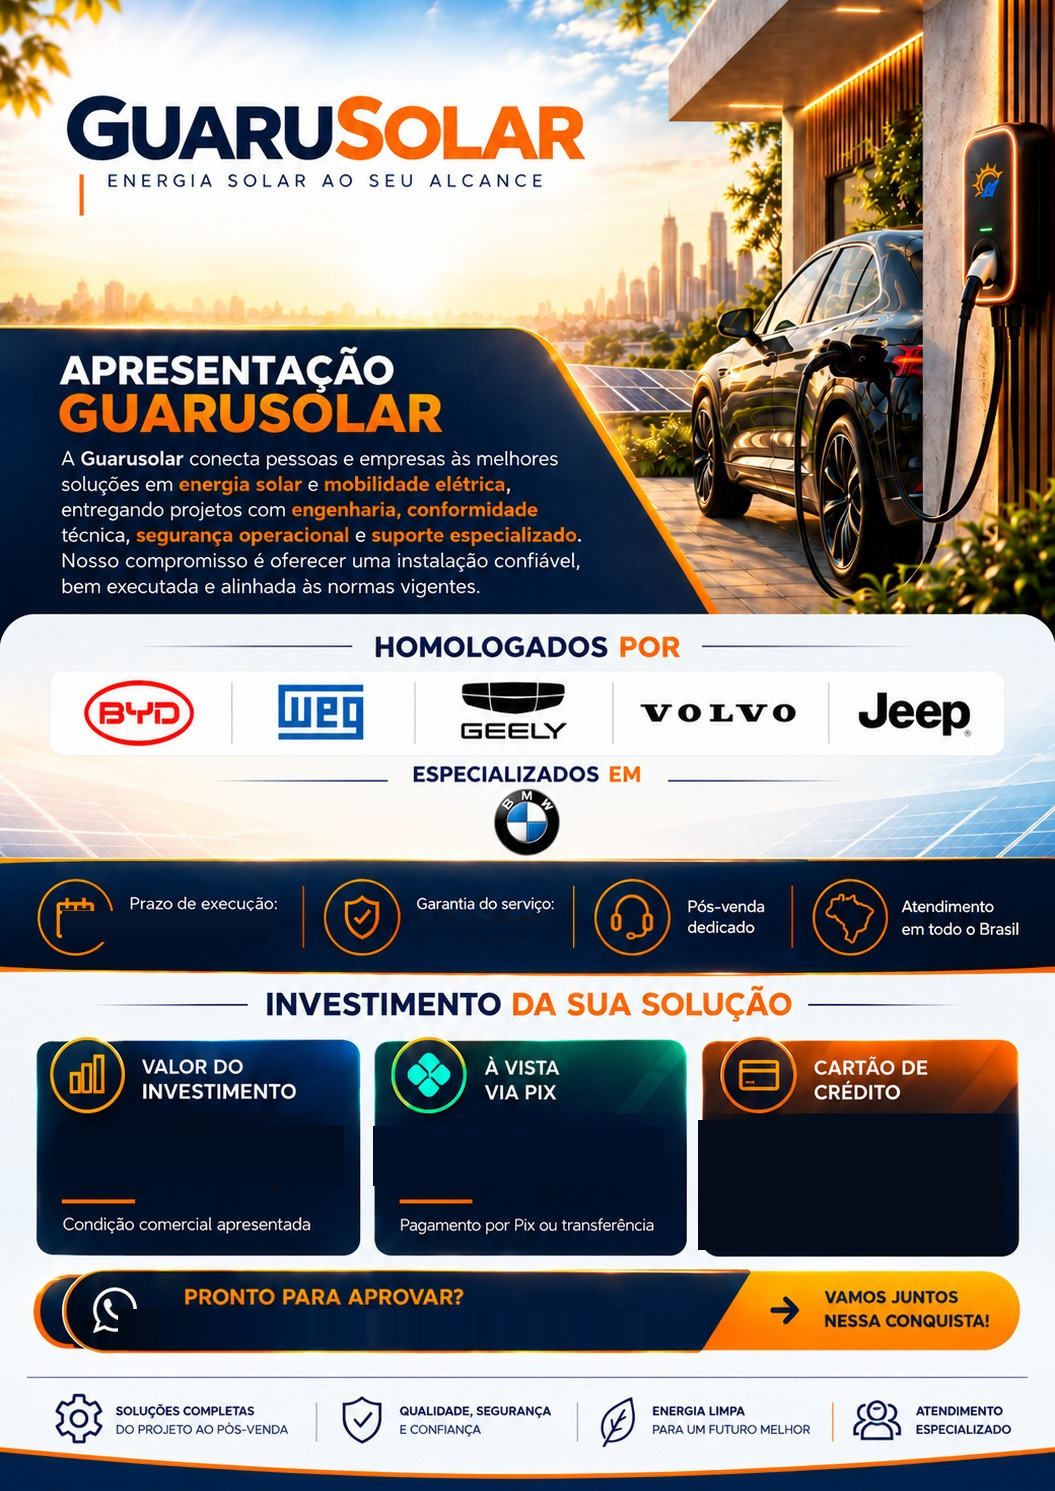
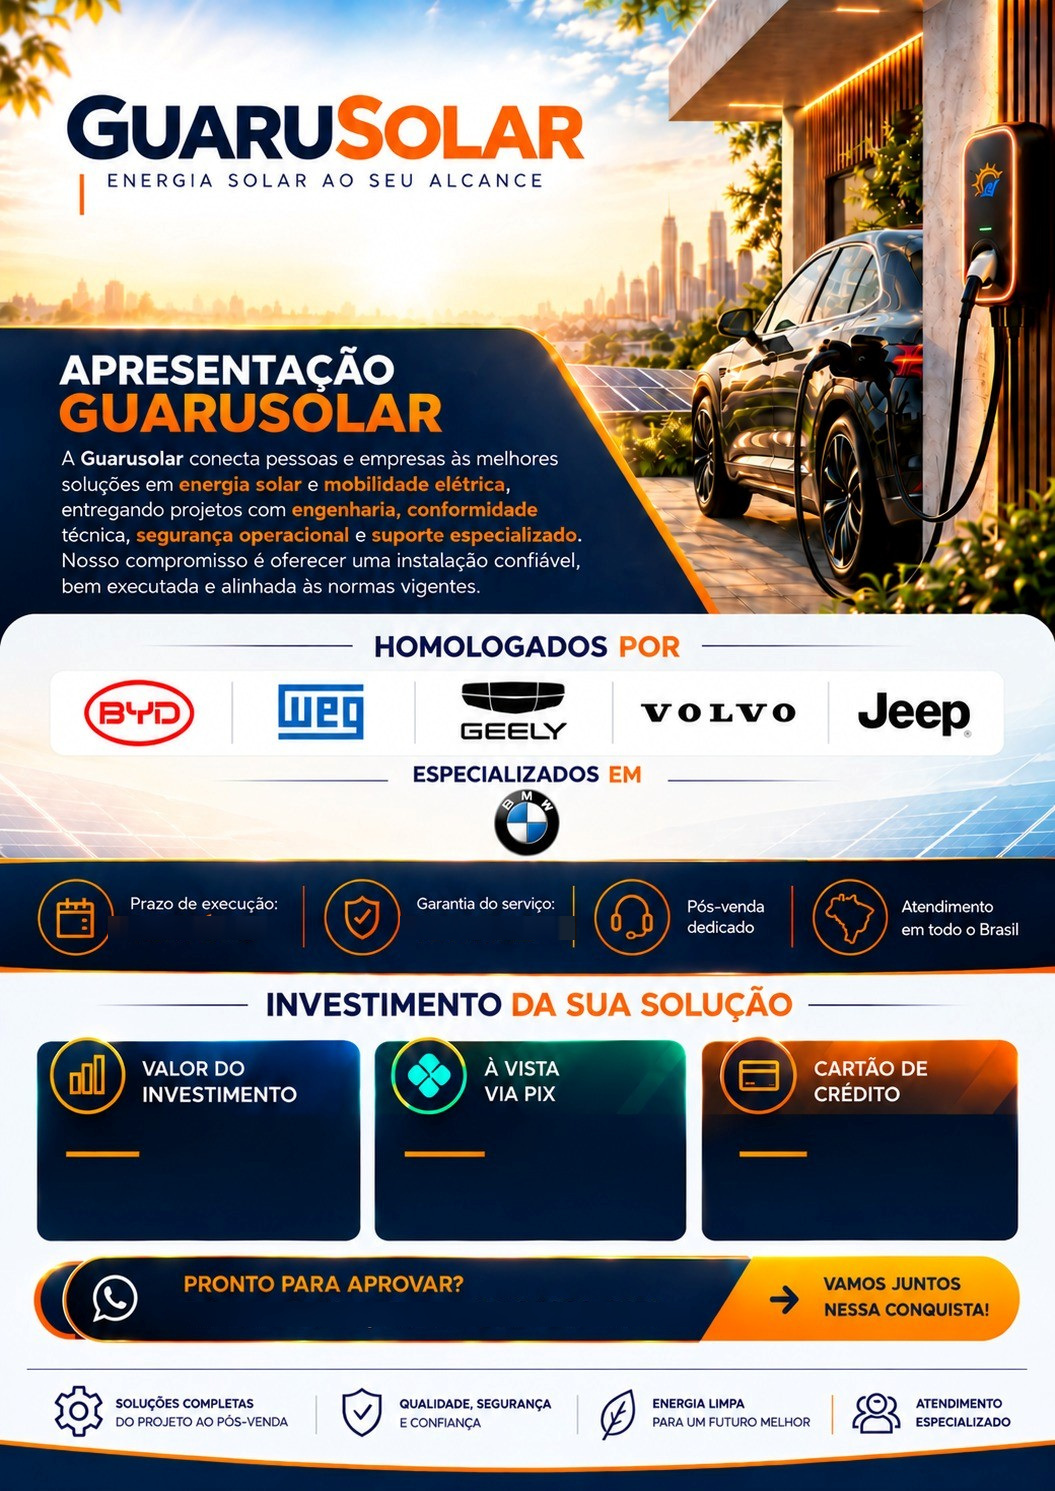
Proposta nova: artes de 27/10, cartoes da pagina 3 e numero em todas
- Troca as artes da pagina 3 e da capa do carregador veicular.
- Pagina 3: a regua laranja subiu; valor e linha de apoio vao embaixo
  dela, posicionados pela linha de base. Legendas do sistema (a arte nao
  as traz mais): "Condicao comercial apresentada" e "N% de desconto"
  (nada com desconto zero). Cartao em tres linhas: "12 x R$ 916,36", a
  ultima parcela e o total (", sem juros" se absorvida); pagamento unico
  sem a linha do total. Contato sobe 8 pt.
- "Pagina X de N" nas tres paginas, com o total real; branco sobre a
  faixa navy nas artes.

diff --git a/apps/api/src/lib/pdf-proposta-nova.ts b/apps/api/src/lib/pdf-proposta-nova.ts
@@ -790,10 +790,10 @@ function campo(nome: keyof typeof PAGINA_3_NOVA.campos, linhas: Linha[]): Conten
   } as Content;
 }
 
-/** Valor grande de um campo: o maior tamanho que cabe na largura dele. */
-const valorGrande = (nome: keyof typeof PAGINA_3_NOVA.campos, texto: string): Linha => ({
+/** Valor grande de um cartão: o maior tamanho que cabe na largura dele. */
+const valorGrande = (largura: number, texto: string): Linha => ({
   texto,
-  tamanho: tamanhoQueCabe(texto, PAGINA_3_NOVA.campos[nome].largura) ?? 11,
+  tamanho: tamanhoQueCabe(texto, largura) ?? 11,
   negrito: true,
 });
 
@@ -802,30 +802,73 @@ const valorGrande = (nome: keyof typeof PAGINA_3_NOVA.campos, texto: string): Li
  * antigo com entrada (anterior a 25/10/2026) saem a 7,5 pt e podem descer até 7 para caber numa
  * linha (`encolheAte`); fora isso, só a linha "N parcelas sem juros de" desce, até o piso de 9.
  */
-const linhaDeApoio = (nome: keyof typeof PAGINA_3_NOVA.campos, texto: string, maximo: number, acima = 0, encolheAte = maximo): Linha => ({
+const linhaDeApoio = (largura: number, texto: string, maximo: number, encolheAte = maximo): Linha => ({
   texto,
-  tamanho: tamanhoQueCabe(texto, PAGINA_3_NOVA.campos[nome].largura, maximo, encolheAte) ?? maximo,
+  tamanho: tamanhoQueCabe(texto, largura, maximo, encolheAte) ?? maximo,
   cor: PAGINA_3_NOVA.cores.detalhe,
-  acima,
 });
+
+/** IBM Plex Sans (normal e negrito): o pdfmake põe a linha de base 1,025 x o tamanho abaixo do topo da linha. */
+const ASCENDENTE = 1.025;
+
+/** Uma linha posicionada pela LINHA DE BASE (x, base), limitada à largura. */
+function linhaNaBase(x: number, base: number, largura: number, l: Linha): Content {
+  return {
+    absolutePosition: { x, y: base - ASCENDENTE * l.tamanho },
+    // tabela de uma célula: em posição absoluta é ela que limita a largura do texto
+    table: {
+      widths: [largura],
+      body: [[{ text: l.texto, fontSize: l.tamanho, bold: l.negrito ?? false, color: l.cor ?? PAGINA_3_NOVA.cores.valor, lineHeight: 1.05 }]],
+    },
+    layout: semBordas([0, 0, 0, 0]),
+  } as Content;
+}
+
+type CartaoDeValor = keyof typeof PAGINA_3_NOVA.cartoes;
+
+/**
+ * O valor de um cartão (linha de base PAGINA_3_NOVA.cartoes) e, embaixo, as linhas de apoio, cada
+ * uma `entreLinhas` abaixo da anterior. `apertado`: só o orçamento antigo com entrada (três linhas
+ * de apoio a 7,5 pt; nenhum na base).
+ */
+function noCartao(nome: CartaoDeValor, valor: Linha, apoio: Linha[], apertado = false): Content[] {
+  const c = PAGINA_3_NOVA.cartoes[nome];
+  const doValor = apertado ? 12 : PAGINA_3_NOVA.entreLinhas.doValor;
+  const doApoio = apertado ? 8.5 : PAGINA_3_NOVA.entreLinhas.doApoio;
+  return [valor, ...apoio].map((l, i) => linhaNaBase(c.x, c.y + (i === 0 ? 0 : doValor + (i - 1) * doApoio), c.largura, l));
+}
+
+/** Legenda fixa embaixo do valor (PAGINA_3_NOVA.legendas), a 9 pt. */
+const legenda = (nome: CartaoDeValor, texto: string): Linha =>
+  linhaDeApoio(PAGINA_3_NOVA.cartoes[nome].largura, texto, PAGINA_3_NOVA.legendas.tamanho);
 
 /**
  * Os campos dos valores, só com o que está GRAVADO (propostaInvestimento, propostaAVista...,
- * propostaCartao...). Os rótulos ("VALOR DO INVESTIMENTO", "CARTÃO DE CRÉDITO"...) são da arte.
+ * propostaCartao...). Os rótulos ("VALOR DO INVESTIMENTO", "CARTÃO DE CRÉDITO"...) são da arte;
+ * as legendas embaixo do valor, do sistema (PAGINA_3_NOVA.legendas).
  */
 function camposDosValores(o: OrcamentoParaPdf): Content[] {
   const P = PAGINA_3_NOVA;
   const investimento = n(o.propostaInvestimento);
   const aVista = n(o.propostaAVistaValor);
+  const pctAVista = n(o.propostaAVistaPct) ?? 0;
   const parcelas = o.propostaCartaoParcelas;
   const parcela = n(o.propostaCartaoParcela);
   const total = n(o.propostaCartaoTotal);
+  const largura = (nome: CartaoDeValor) => P.cartoes[nome].largura;
   const campos: Content[] = [
-    campo('investimento', [valorGrande('investimento', investimento == null ? A_DEFINIR : formatarBRL(investimento))]),
-    campo('aVista', [valorGrande('aVista', aVista == null ? A_DEFINIR : formatarBRL(aVista))]),
+    ...noCartao('investimento', valorGrande(largura('investimento'), investimento == null ? A_DEFINIR : formatarBRL(investimento)), [
+      legenda('investimento', P.legendas.investimento),
+    ]),
+    // desconto zero: sem legenda
+    ...noCartao(
+      'aVista',
+      valorGrande(largura('aVista'), aVista == null ? A_DEFINIR : formatarBRL(aVista)),
+      aVista != null && pctAVista > 0 ? [legenda('aVista', P.legendas.aVista.replace('{percentual}', `${formatarQuantidade(pctAVista)}%`))] : [],
+    ),
   ];
   if (parcelas == null || parcela == null || total == null) {
-    return [...campos, campo('cartaoParcelas', [valorGrande('cartaoParcelas', A_DEFINIR)])];
+    return [...campos, ...noCartao('cartao', valorGrande(largura('cartao'), A_DEFINIR), [])];
   }
   const debito = Boolean(o.propostaCartaoDebito);
   const entrada = n(o.propostaCartaoEntrada) ?? 0;
@@ -842,26 +885,36 @@ function camposDosValores(o: OrcamentoParaPdf): Content[] {
         : primeira != null && primeira !== parcela
           ? `1ª parcela de ${formatarBRL(primeira)}`
           : null;
-  // entrada: só orçamento salvo antes de 25/10/2026 (sai como foi enviado), na linha de baixo
-  // "sem juros" só com a taxa absorvida (27/10/2026; taxaDoCartaoDaProposta)
+  // até três linhas embaixo da régua: o valor ("12 × R$ 916,36"), a parcela diferente e o total;
+  // débito: o valor e "no débito"; 1 parcela: o valor e "em uma vez no cartão" (os dois sem a
+  // linha do total, salvo com entrada). "Sem juros" só com a taxa absorvida (27/10/2026;
+  // taxaDoCartaoDaProposta), no fim do total: não há lugar para uma quarta linha a 9 pt
   const semJuros = !debito && parcelas > 1 && taxaDoCartaoDaProposta(o) === 'absorvida';
-  const acima = debito ? 'no débito' : `${parcelas} ${parcelas === 1 ? 'parcela' : 'parcelas'}${semJuros ? ' sem juros' : ''} de`;
-  const valor = debito ? formatarBRL(total - entrada) : formatarBRL(parcela);
-  const abaixo = [...(entrada > 0 ? [`+ entrada de ${formatarBRL(entrada)} via Pix`] : []), ...(outra ? [outra] : [])];
-  // duas linhas de apoio (só orçamento antigo com entrada): menores, para caber antes do total
-  const tamanhoAbaixo = abaixo.length > 1 ? 7.5 : 8.5;
+  // um pagamento só (débito ou 1 parcela): o valor JÁ é o total, então a linha do total sai
+  // (o cliente procuraria uma diferença que não existe); com entrada (orçamento antigo) ela fica
+  const pagamentoUnico = debito || parcelas === 1;
+  const valor = debito ? formatarBRL(total - entrada) : parcelas === 1 ? formatarBRL(parcela) : `${parcelas} × ${formatarBRL(parcela)}`;
+  // entrada: só orçamento salvo antes de 25/10/2026 (sai como foi enviado)
+  const abaixo = [
+    ...(debito ? ['no débito'] : parcelas === 1 ? ['em uma vez no cartão'] : []),
+    ...(entrada > 0 ? [`+ entrada de ${formatarBRL(entrada)} via Pix`] : []),
+    ...(outra ? [outra] : []),
+  ];
+  const comTotal = !pagamentoUnico || entrada > 0;
+  // duas linhas de apoio antes do total (só orçamento antigo com entrada): menores, para caber
+  const apertado = abaixo.length > 1;
+  const L = largura('cartao');
   return [
     ...campos,
-    campo('cartaoParcelas', [
-      // 10 pt; desce até o piso de 9 se "18 parcelas sem juros de" não couber
-      linhaDeApoio('cartaoParcelas', acima, 10, 0, 9),
-      { ...valorGrande('cartaoParcelas', valor), acima: 1 },
-      ...abaixo.map((t, i) => ({
-        ...linhaDeApoio('cartaoParcelas', t, tamanhoAbaixo, i === 0 ? (abaixo.length > 1 ? 1 : 2) : 0, abaixo.length > 1 ? 7 : tamanhoAbaixo),
-        entrelinha: abaixo.length > 1 ? 0.95 : 1.05,
-      })),
-    ]),
-    campo('cartaoTotal', [linhaDeApoio('cartaoTotal', `total de ${formatarBRL(total)}`, 9)]),
+    ...noCartao(
+      'cartao',
+      valorGrande(L, valor),
+      [
+        ...abaixo.map((t) => linhaDeApoio(L, t, apertado ? 7.5 : 9, apertado ? 7 : 9)),
+        ...(comTotal ? [linhaDeApoio(L, `total de ${formatarBRL(total)}${semJuros ? ', sem juros' : ''}`, apertado ? 7.5 : 9)] : []),
+      ],
+      apertado,
+    ),
   ];
 }
 
@@ -979,26 +1032,28 @@ function capa(o: OrcamentoParaPdf): Arte {
 export function documentoDaPropostaNova(o: OrcamentoParaPdf): TDocumentDefinitions {
   const A = artes();
   const escopo = paginaDoEscopo(o);
+  const arteDaCapa = capa(o);
   return {
     pageSize: 'A4',
     pageMargins: [LATERAL, MARGEM_PAGINA, LATERAL, MARGEM_PAGINA],
     info: { title: `Proposta ${o.codigo} — ${EMPRESA.nome}`, author: EMPRESA.nome, subject: 'Proposta comercial' },
     defaultStyle: { font: 'PlexSans', fontSize: 10, color: COR.texto, lineHeight: 1.15 },
-    // "Página X de N" nas páginas 2 em diante; a capa (página 1) é a arte, sem rodapé do sistema
+    // "Página X de N" em todas (27/10/2026: as artes não trazem mais o número), com o total real;
+    // na capa e na última (as artes), branco sobre a faixa navy do pé
     footer: (pagina: number, total: number) => {
-      if (pagina === 1) return null;
       const R = RODAPE_DA_PROPOSTA_NOVA;
+      const sobreAArte = (pagina === 1 && arteDaCapa.arquivo !== null) || (pagina === total && A.pagina3.arquivo !== null);
       return {
         text: R.texto.replace('{pagina}', String(pagina)).replace('{total}', String(total)),
         fontSize: R.tamanho,
-        color: pagina === total ? R.corSobreAArte : R.cor,
+        color: sobreAArte ? R.corSobreAArte : R.cor,
         alignment: R.alinhamento,
         characterSpacing: R.espacamento,
         margin: [LATERAL, MARGEM_PAGINA - R.distanciaDaBase - R.tamanho, LATERAL, 0],
       } as Content;
     },
     content: [
-      ...paginaDeArte(capa(o), 1, o),
+      ...paginaDeArte(arteDaCapa, 1, o),
       { text: '', pageBreak: 'after' },
       ...escopo.conteudo,
       { text: '', pageBreak: 'before' },

diff --git a/apps/api/src/conteudo/proposta.ts b/apps/api/src/conteudo/proposta.ts
@@ -144,44 +144,61 @@ export const ARTES_DA_PROPOSTA_NOVA = {
 };
 
 /**
- * Rodapé "Página X de N" das páginas 2 em diante (a capa não tem). Copie o estilo da numeração
- * da arte da capa quando ela chegar: tamanho, cor, alinhamento, espaçamento entre letras e a
- * distância da base da folha. `corSobreAArte` vale na última página, que é a arte da página 3.
+ * Rodapé "Página X de N" em TODAS as páginas (27/10/2026: as artes das páginas 1 e 3 não trazem
+ * mais o número impresso), com o total real de páginas. Mesma linha de base em todas (y ~832),
+ * que nas artes cai na faixa navy do pé (na página 3, à direita, ela começa em y ~820).
+ * `corSobreAArte` vale na capa e na última página (as artes); sem o arquivo da arte, `cor`.
  */
 export const RODAPE_DA_PROPOSTA_NOVA = {
   texto: 'Página {pagina} de {total}',
   tamanho: 8,
   cor: '#5A6675',
-  corSobreAArte: '#5A6675',
+  corSobreAArte: '#FFFFFF',
   alinhamento: 'right' as 'left' | 'center' | 'right',
   espacamento: 0.3,
-  distanciaDaBase: 16,
+  distanciaDaBase: 10,
 };
 
 /**
- * Página 3 do modelo novo: SETE campos POR CIMA da arte (assets/proposta/pagina-3.jpg, 1055 x
- * 1491 px, A4 exato: 1 px da arte = 0,5643 pt). Posições em PONTOS do PDF (1/72 de polegada), a
+ * Página 3 do modelo novo: campos POR CIMA da arte (assets/proposta/pagina-3.jpg, 1055 x 1491
+ * px, A4 exato: 1 px da arte = 0,5643 pt). Posições em PONTOS do PDF (1/72 de polegada), a
  * partir do canto de cima à esquerda da folha (A4 = 595,28 x 841,89); px da arte x 0,5643 = pt.
- * Medidas em 25/10/2026 na arte sem os valores embutidos. Cada campo é uma caixa: o texto não
- * passa da largura (diminui até caber) e a altura dela fica livre da régua laranja e do texto
- * fixo da arte. Os valores vêm gravados no orçamento (condições da proposta).
+ * Medidas em 27/10/2026 na arte nova, sem os valores. Os valores vêm gravados no orçamento
+ * (condições da proposta).
  */
 export const PAGINA_3_NOVA = {
   /** tamanho máximo do valor grande (diminui até caber na largura do campo, mínimo 11) */
   tamanhoDoValor: 17,
   /** sobre os cartões escuros da arte */
   cores: { valor: '#FFFFFF', detalhe: '#CBDBF0' },
+  /**
+   * Os três cartões de valor (arte de 27/10/2026): a régua laranja fica logo abaixo do título
+   * (y 650 a 652) e o espaço livre é o de BAIXO dela, até o fim do cartão (y 699). Ali vão o valor
+   * e, embaixo dele, as linhas de apoio. `y` é a LINHA DE BASE do valor, a mesma nos três; as
+   * linhas de apoio descem `entreLinhas`. `x` = início da régua de cada cartão.
+   */
+  cartoes: {
+    investimento: { x: 38, y: 669.5, largura: 157 },
+    aVista: { x: 229, y: 669.5, largura: 151 },
+    cartao: { x: 418, y: 669.5, largura: 148 },
+  },
+  /** do valor (17 pt) para a 1ª linha de apoio; de uma linha de apoio (9 pt) para a próxima */
+  entreLinhas: { doValor: 13.5, doApoio: 11.5 },
+  /**
+   * Legendas embaixo do valor (a arte antiga as trazia impressas; a nova, não), a 9 pt, nunca
+   * menos. À vista: o desconto GRAVADO (propostaAVistaPct); desconto zero = sem legenda. O cartão
+   * não tem legenda fixa: o valor é "12 × R$ 916,36" numa linha (o pior caso, "18 × R$ 12.345,67",
+   * cabe a 17 pt: 146 de 148 pt) e embaixo vão a última parcela (se diferente) e o total, com
+   * ", sem juros" no fim quando a taxa é absorvida. Quatro linhas não cabem embaixo da régua.
+   */
+  legendas: {
+    investimento: 'Condição comercial apresentada',
+    aVista: '{percentual} de desconto',
+    tamanho: 9,
+  },
   campos: {
-    /** cartão da esquerda: entre o título e a régua laranja (y 676,5) */
-    investimento: { x: 35, y: 638, largura: 158, altura: 30 },
-    /** cartão do meio: idem (régua em y 676,5) */
-    aVista: { x: 225, y: 638, largura: 150, altura: 30 },
-    /** cartão da direita (sem régua): parcelas em duas linhas e, embaixo, a última diferente */
-    cartaoParcelas: { x: 409, y: 634, largura: 152, altura: 56 },
-    /** cartão da direita, embaixo (o quadro escuro acaba em y 705, o cartão em 709) */
-    cartaoTotal: { x: 409, y: 692, largura: 152, altura: 11 },
     /** faixa "PRONTO PARA APROVAR?": consultora + telefone da empresa, abaixo do título, até a diagonal laranja (x ~ 400) */
-    contato: { x: 104, y: 742, largura: 285, altura: 14 },
+    contato: { x: 104, y: 734, largura: 285, altura: 14 },
   },
   /**
    * faixa das logos das montadoras (ARTES_DA_PROPOSTA_NOVA.logosDasMontadoras): SÓ SEM A ARTE

diff --git a/CLAUDE.md b/CLAUDE.md
@@ -169,8 +169,10 @@ apps/api/                      API (Express + Prisma)
                                arte de fundo (assets/proposta/; sem arquivo, cinza com o nome
                                esperado). Itens: nome · descrição técnica. Acima do nome do
                                vendedor, o "Cargo na proposta" dele (Usuario.cargoNaProposta,
-                               tela Usuários, padrão "Consultor"). Rodapé "Página X de N" da
-                               página 2 em diante (RODAPE_DA_PROPOSTA_NOVA). Página 3: os três
+                               tela Usuários, padrão "Consultor"). Rodapé "Página X de N" em TODAS
+                               as páginas, com o total real (RODAPE_DA_PROPOSTA_NOVA; 27/10/2026: as
+                               artes não trazem mais o número), na mesma linha de base (y ~832); na
+                               capa e na última, branco sobre a faixa navy do pé. Página 3: os três
                                valores GRAVADOS (proposta*) e o contato, em posições de
                                PAGINA_3_NOVA (conteudo/proposta.ts), e, SÓ SEM A ARTE (ela já traz as logos), a faixa das logos das
                                montadoras (mesmo tamanho todas, 24 mm, logo faltando é pulada).
@@ -182,9 +184,18 @@ apps/api/                      API (Express + Prisma)
                                FOTO_MINIMA = sem foto; itens que não cabem nem assim = reserva.
                                O arranjo sai de `planoDaPagina2` (o PDF e o aviso do gerador,
                                POST /api/orcamentos/folhas-da-proposta, AvisoDasFolhas.tsx). Página 3 (arte de
-                               25/10/2026, 1055 x 1491 px): SETE campos em PAGINA_3_NOVA (pontos do PDF; px x 0,5643):
-                               selos de prazo e garantia, investimento, à vista, parcelas, total no cartão e
-                               consultora + telefone DA EMPRESA (EMPRESA.telefone; nunca o celular do vendedor; nome longo
+                               27/10/2026, 1055 x 1491 px; pontos do PDF, px x 0,5643): selos de prazo e garantia
+                               (PAGINA_3_NOVA.selos); os três cartões de valor (PAGINA_3_NOVA.cartoes): a régua
+                               laranja fica logo abaixo do título e o valor vai EMBAIXO dela, com a linha de apoio
+                               embaixo do valor, a 9 pt (PAGINA_3_NOVA.legendas: "Condição comercial apresentada";
+                               "N% de desconto" do propostaAVistaPct, nada com desconto zero; no cartão, a última
+                               parcela diferente e o total). Posição pela LINHA DE BASE, a mesma nos três. Cartão
+                               em TRÊS linhas embaixo da régua: "12 × R$ 916,36" (pior caso "18 × R$ 12.345,67" cabe
+                               a 17 pt), a última parcela (NÃO tirar: no modelo novo é o único lugar que explica a
+                               diferença para o total) e o total, com ", sem juros" se absorvida. Pagamento ÚNICO
+                               (o valor já é o total, sem "1 ×"): débito = valor + "no débito"; 1 parcela = valor +
+                               "em uma vez no cartão"; SEM a linha do total (só o orçamento antigo com entrada a
+                               mantém). Quatro linhas não cabem. E a consultora + telefone DA EMPRESA (EMPRESA.telefone; nunca o celular do vendedor; nome longo
                                é abreviado, nunca abaixo de 9 pt); rótulos e logos são da arte. Prazo e garantia nos SELOS da arte
                                (PAGINA_3_NOVA.selos): 11 pt a 9 pt, nunca cortados (a API barra o que não cabe). Arte faltando (artesQueFaltam): aviso no log ao subir e em
                                /saude → proposta.artesFaltando; nunca trava. Texto por cima das artes
